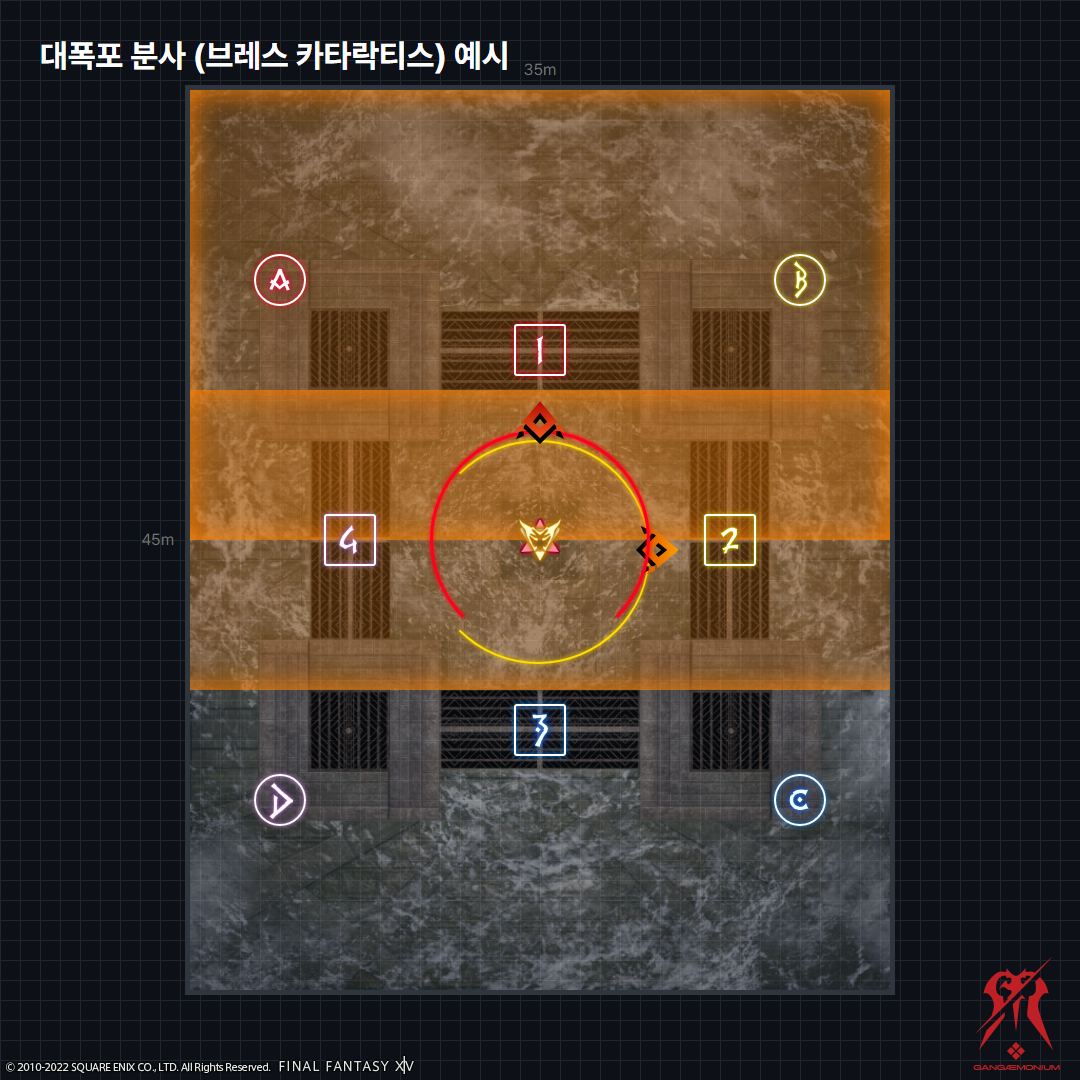
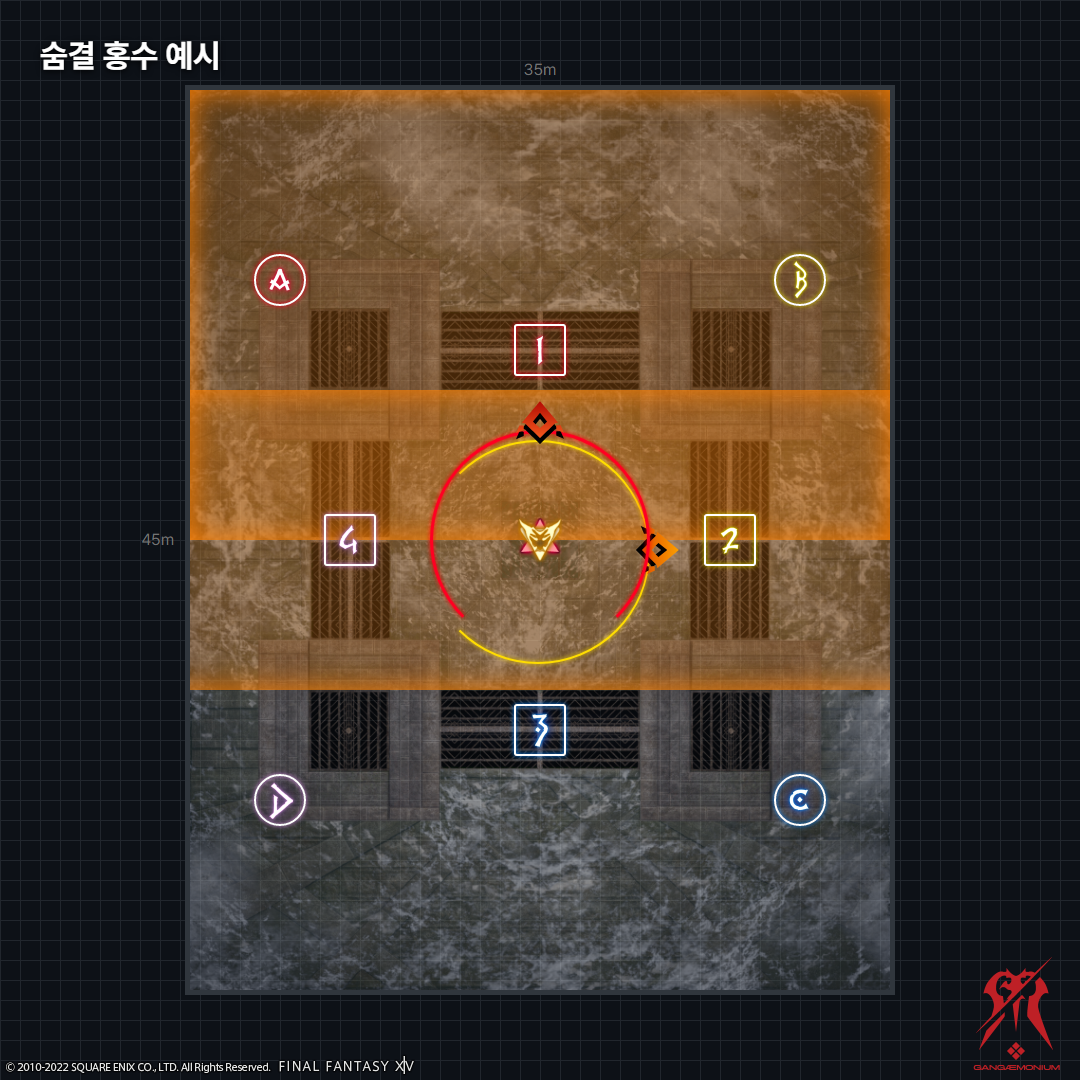
update `p2s`

Changed region(s): [[0.0306, 0.0306, 0.4889, 0.0611]]

diff --git a/p2s/README.md b/p2s/README.md
@@ -23,9 +23,9 @@
     - 물에 닿을 시 `물독` 디버프 부여
     - 필드의 높은 지대 중 무작위 한 곳이 위험 지대로 변경됨 (해당 발판에 닿을 시 사망)
     - 위험 지대 기준 대각선 방향의 높은 지대가 본진의 위치
-- [숨결 홍수](#숨결-홍수-브레스-카타락티스)/[숨결 날개](#숨결-날개-윙-카타락티스)
+- [숨결 홍수](#숨결-홍수-브레스-카타락티스)/[날갯짓 홍수](#날갯짓-홍수-윙-카타락티스)
     - 숨결 홍수: 머리 방향 180º 범위 공격 + 몸통 전후방 일직선 범위 공격
-    - 숨결 날개: 머리 반대 방향 180º 범위 공격 + 몸통 전후방 일직선 범위 공격
+    - 날갯짓 홍수: 머리 반대 방향 180º 범위 공격 + 몸통 전후방 일직선 범위 공격
 - [간섭 공격](#간섭-공격)
     - 줄이 연결된 캐릭터에게 넓은 범위의 강공격<br>
     탱커가 줄을 가져간 다음 본진 반대편에서 처리
@@ -89,7 +89,7 @@
 ![/p2s/images/0124.png](https://raw.githubusercontent.com/Gangaemonium/Asphodelos/main/p2s/images/0124.png)
 ## 다중 낙인 처리
 ![/p2s/images/0055.png](https://raw.githubusercontent.com/Gangaemonium/Asphodelos/main/p2s/images/0055.png)
-## 대폭포 날갯짓 (윙 카타락티스)
+## 날갯짓 홍수 (윙 카타락티스)
 ![/p2s/images/0049.png](https://raw.githubusercontent.com/Gangaemonium/Asphodelos/main/p2s/images/0049.png)
 ## 숨결 홍수 (브레스 카타락티스)
 ![/p2s/images/0050.png](https://raw.githubusercontent.com/Gangaemonium/Asphodelos/main/p2s/images/0050.png)
